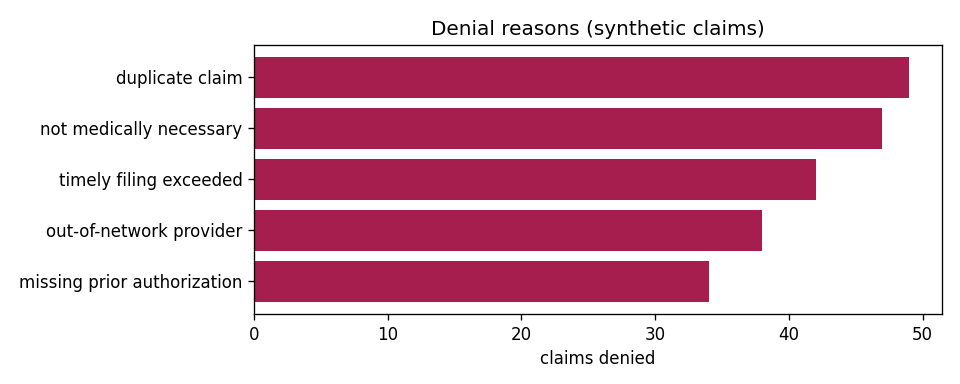
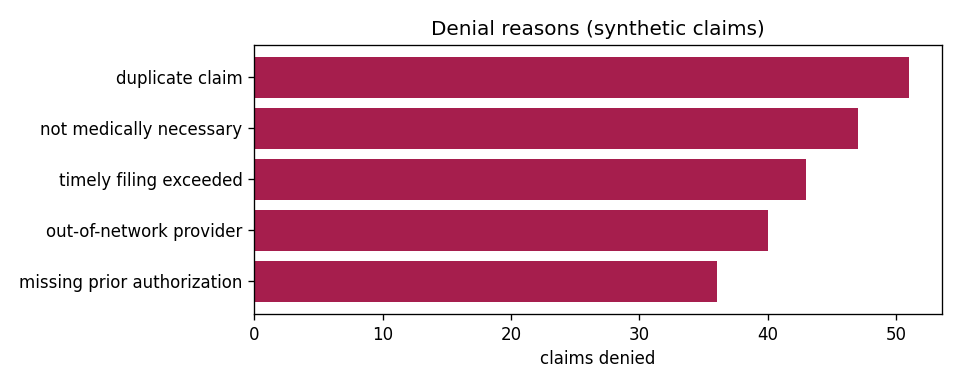
Query CLI: procedure and diagnosis code lookups; new synthetic batch

diff --git a/src/healthdata/cli.py b/src/healthdata/cli.py
@@ -3,6 +3,8 @@
   python scripts/query.py claim CLM-61117-B01-000003
   python scripts/query.py member MBR-0076
   python scripts/query.py plan PPO
+  python scripts/query.py procedure 99213
+  python scripts/query.py diagnosis I10
 
 Read-only. All data is synthetic.
 """
@@ -40,14 +42,45 @@ def plan_summary(pipe: Pipeline, plan: str) -> dict | None:
     return None
 
 
+def _code_summary(pipe: Pipeline, field: str, code: str) -> dict | None:
+    rows = [r for r in pipe.load_store().values() if (r[field] or "").lower() == code.lower()]
+    if not rows:
+        return None
+    paid_rows = [r for r in rows if r["status"] != "denied"]
+    reasons: dict[str, int] = {}
+    for r in rows:
+        if r["status"] == "denied":
+            reasons[r["denial_reason"] or "unspecified"] = reasons.get(r["denial_reason"] or "unspecified", 0) + 1
+    return {
+        field: rows[0][field],
+        "claims": len(rows),
+        "denial_rate": round(sum(r["status"] == "denied" for r in rows) / len(rows), 4),
+        "avg_billed": round(sum(float(r["billed_amount"] or 0) for r in rows) / len(rows), 2),
+        "avg_paid_non_denied": round(sum(float(r["paid_amount"] or 0) for r in paid_rows) / len(paid_rows), 2)
+        if paid_rows else 0.0,
+        "denial_reasons": dict(sorted(reasons.items(), key=lambda kv: (-kv[1], kv[0]))),
+    }
+
+
+def procedure_summary(pipe: Pipeline, code: str) -> dict | None:
+    """Per procedure code: volume, denial rate, average billed/paid and denial reasons."""
+    return _code_summary(pipe, "procedure_code", code)
+
+
+def diagnosis_summary(pipe: Pipeline, code: str) -> dict | None:
+    """Same view keyed by diagnosis code. Illustrative codes, not authoritative."""
+    return _code_summary(pipe, "diagnosis_code", code)
+
+
 def main(argv: list[str] | None = None, store: Path | None = None) -> int:
     parser = argparse.ArgumentParser(description=__doc__.splitlines()[0])
     sub = parser.add_subparsers(dest="cmd", required=True)
-    for name in ("claim", "member", "plan"):
+    for name in ("claim", "member", "plan", "procedure", "diagnosis"):
         sub.add_parser(name).add_argument("key")
     args = parser.parse_args(argv)
     pipe = Pipeline(store or Path(__file__).resolve().parents[2] / "data" / "claims.csv")
-    handler = {"claim": lookup_claim, "member": member_summary, "plan": plan_summary}[args.cmd]
+    handler = {"claim": lookup_claim, "member": member_summary, "plan": plan_summary,
+               "procedure": procedure_summary, "diagnosis": diagnosis_summary}[args.cmd]
     result = handler(pipe, args.key)
     if result is None:
         print(f"no {args.cmd} found for {args.key!r}")

diff --git a/tests/test_cli.py b/tests/test_cli.py
@@ -50,3 +50,28 @@ def test_main_prints_json_and_exit_codes(tmp_path, capsys):
     assert json.loads(capsys.readouterr().out)["claims"] == 2
     assert cli.main(["claim", "nope"], store=path) == 1
     assert "no claim found" in capsys.readouterr().out
+
+
+def test_procedure_summary_math_and_reasons(tmp_path):
+    out = cli.procedure_summary(Pipeline(store(tmp_path)), "99213")
+    assert out["claims"] == 3 and out["denial_rate"] == 0.3333
+    assert out["avg_billed"] == 133.33 and out["avg_paid_non_denied"] == 60.0
+    assert out["denial_reasons"] == {"duplicate claim": 1}
+    assert cli.procedure_summary(Pipeline(store(tmp_path)), "00000") is None
+
+
+def test_diagnosis_summary_case_insensitive_and_all_denied(tmp_path):
+    path = tmp_path / "d.csv"
+    Pipeline(path).ingest([make_valid("CLM-X", diagnosis_code="E11.9", status="denied",
+                                      paid_amount=0, allowed_amount=0, denial_reason="timely filing exceeded")])
+    out = cli.diagnosis_summary(Pipeline(path), "e11.9")
+    assert out["denial_rate"] == 1.0 and out["avg_paid_non_denied"] == 0.0  # no divide-by-zero
+    assert out["denial_reasons"] == {"timely filing exceeded": 1}
+
+
+def test_main_procedure_and_diagnosis_commands(tmp_path, capsys):
+    path = store(tmp_path)
+    assert cli.main(["procedure", "99213"], store=path) == 0
+    assert json.loads(capsys.readouterr().out)["claims"] == 3
+    assert cli.main(["diagnosis", "ZZZ"], store=path) == 1
+    assert "no diagnosis found" in capsys.readouterr().out

diff --git a/reports/claims_report.md b/reports/claims_report.md
@@ -1,8 +1,8 @@
 # Healthcare Data - claims pipeline report
 
-Generated 2026-11-19 00:11 UTC. All data is synthetic - no real member, patient or plan information.
+Generated 2026-11-19 05:11 UTC. All data is synthetic - no real member, patient or plan information.
 
-**1940 claims** in store. Billed $6,034,595, paid $3,524,675, denied 209 overall.
+**2000 claims** in store. Billed $6,218,610, paid $3,628,084, denied 217 overall.
 
 ## Monthly financials
 
@@ -20,31 +20,31 @@ Generated 2026-11-19 00:11 UTC. All data is synthetic - no real member, patient 
 | 2026-08 | 50 | $87,251 | $70,911 | $55,220 | 18.0% |
 | 2026-09 | 28 | $97,162 | $80,729 | $53,482 | 7.1% |
 | 2026-10 | 47 | $71,505 | $55,063 | $42,442 | 8.5% |
-| 2026-11 | 1461 | $4,764,633 | $3,681,037 | $2,733,226 | 10.9% |
+| 2026-11 | 1521 | $4,948,647 | $3,826,397 | $2,836,635 | 11.0% |
 
 ## Denial reasons
 
-- duplicate claim (49)
+- duplicate claim (51)
 - not medically necessary (47)
-- timely filing exceeded (42)
-- out-of-network provider (38)
-- missing prior authorization (34)
+- timely filing exceeded (43)
+- out-of-network provider (40)
+- missing prior authorization (36)
 
 ## Plan mix
 
-- HMO: 521
-- PPO: 496
-- EPO: 474
-- HDHP: 449
+- HMO: 532
+- PPO: 515
+- EPO: 490
+- HDHP: 463
 
 ## Plan performance
 
 | Plan | Claims | Denial rate | Paid / billed |
 | --- | ---: | ---: | ---: |
-| HMO | 521 | 8.6% | 61.3% |
-| PPO | 496 | 12.1% | 55.6% |
-| EPO | 474 | 12.9% | 55.4% |
-| HDHP | 449 | 9.8% | 61.5% |
+| HMO | 532 | 8.5% | 61.5% |
+| PPO | 515 | 12.2% | 55.1% |
+| EPO | 490 | 13.1% | 55.4% |
+| HDHP | 463 | 9.7% | 61.7% |
 
 ## Cost sharing by plan (non-denied claims)
 
@@ -52,10 +52,10 @@ Network discount = 1 - allowed/billed. Member cost share = (allowed - paid)/allo
 
 | Plan | Claims | Network discount | Member cost share |
 | --- | ---: | ---: | ---: |
-| HMO | 476 | 21.9% | 15.5% |
-| PPO | 436 | 23.6% | 14.9% |
-| HDHP | 405 | 22.7% | 14.8% |
-| EPO | 413 | 23.3% | 14.6% |
+| HMO | 487 | 21.7% | 15.5% |
+| PPO | 452 | 23.5% | 15.0% |
+| EPO | 426 | 23.3% | 14.8% |
+| HDHP | 418 | 22.8% | 14.7% |
 
 ## Denial-rate outliers (plan x month)
 
@@ -63,21 +63,21 @@ Cells whose denial rate is at least 2 standard errors from the overall rate (cel
 
 | Plan | Month | Claims | Denial rate | Overall | z |
 | --- | --- | ---: | ---: | ---: | ---: |
-| HMO | 2026-11 | 388 | 7.5% | 10.8% | -2.12 |
+| HMO | 2026-11 | 399 | 7.3% | 10.8% | -2.30 |
 
 ## Top procedures by paid amount
 
 | Code | Claims | Avg billed | Paid | Denial rate |
 | --- | ---: | ---: | ---: | ---: |
-| 27447 | 206 | $25,013 | $3,020,841 | 10.7% |
-| 43239 | 207 | $2,038 | $237,945 | 13.0% |
-| 99285 | 202 | $1,076 | $120,599 | 13.9% |
-| 70450 | 187 | $660 | $74,876 | 7.0% |
-| 99214 | 189 | $167 | $18,250 | 11.6% |
+| 27447 | 213 | $24,934 | $3,110,501 | 10.8% |
+| 43239 | 212 | $2,036 | $243,373 | 13.2% |
+| 99285 | 208 | $1,070 | $122,774 | 14.4% |
+| 70450 | 197 | $661 | $78,686 | 7.1% |
+| 99214 | 198 | $167 | $19,284 | 11.1% |
 
 ## Member utilization
 
-168 of 1220 synthetic members have 3+ claims and account for 28.8% of paid dollars.
+179 of 1242 synthetic members have 3+ claims and account for 30.6% of paid dollars.
 
 | Member | Claims | Paid |
 | --- | ---: | ---: |
@@ -91,10 +91,10 @@ Cells whose denial rate is at least 2 standard errors from the overall rate (cel
 
 | Plan | Denials | Top reason | Count |
 | --- | ---: | --- | ---: |
-| EPO | 61 | duplicate claim | 15 |
-| HDHP | 44 | out-of-network provider | 12 |
+| EPO | 64 | duplicate claim | 17 |
+| HDHP | 45 | out-of-network provider | 12 |
 | HMO | 45 | not medically necessary | 12 |
-| PPO | 60 | timely filing exceeded | 19 |
+| PPO | 63 | timely filing exceeded | 20 |
 
 ## Month-over-month trend (last 6 complete months)
 
@@ -109,7 +109,7 @@ Cells whose denial rate is at least 2 standard errors from the overall rate (cel
 
 ## Potential duplicate services
 
-22 groups share a member, procedure and service date (review queue, not a quality failure).
+23 groups share a member, procedure and service date (review queue, not a quality failure).
 
 | Member | Procedure | Date | Claims | Paid |
 | --- | --- | --- | ---: | ---: |

diff --git a/README.md b/README.md
@@ -30,7 +30,7 @@ seeded RNG - no real member, patient, provider or plan data anywhere.
 pip install -r requirements.txt
 python examples/quick_demo.py       # 500 synthetic claims through the pipeline
 python scripts/daily_update.py      # full update round with quality gates
-python scripts/query.py member MBR-0076   # claim / member / plan lookups
+python scripts/query.py member MBR-0076   # claim / member / plan / procedure / diagnosis lookups
 python -m pytest                    # offline test suite
 ```
 
